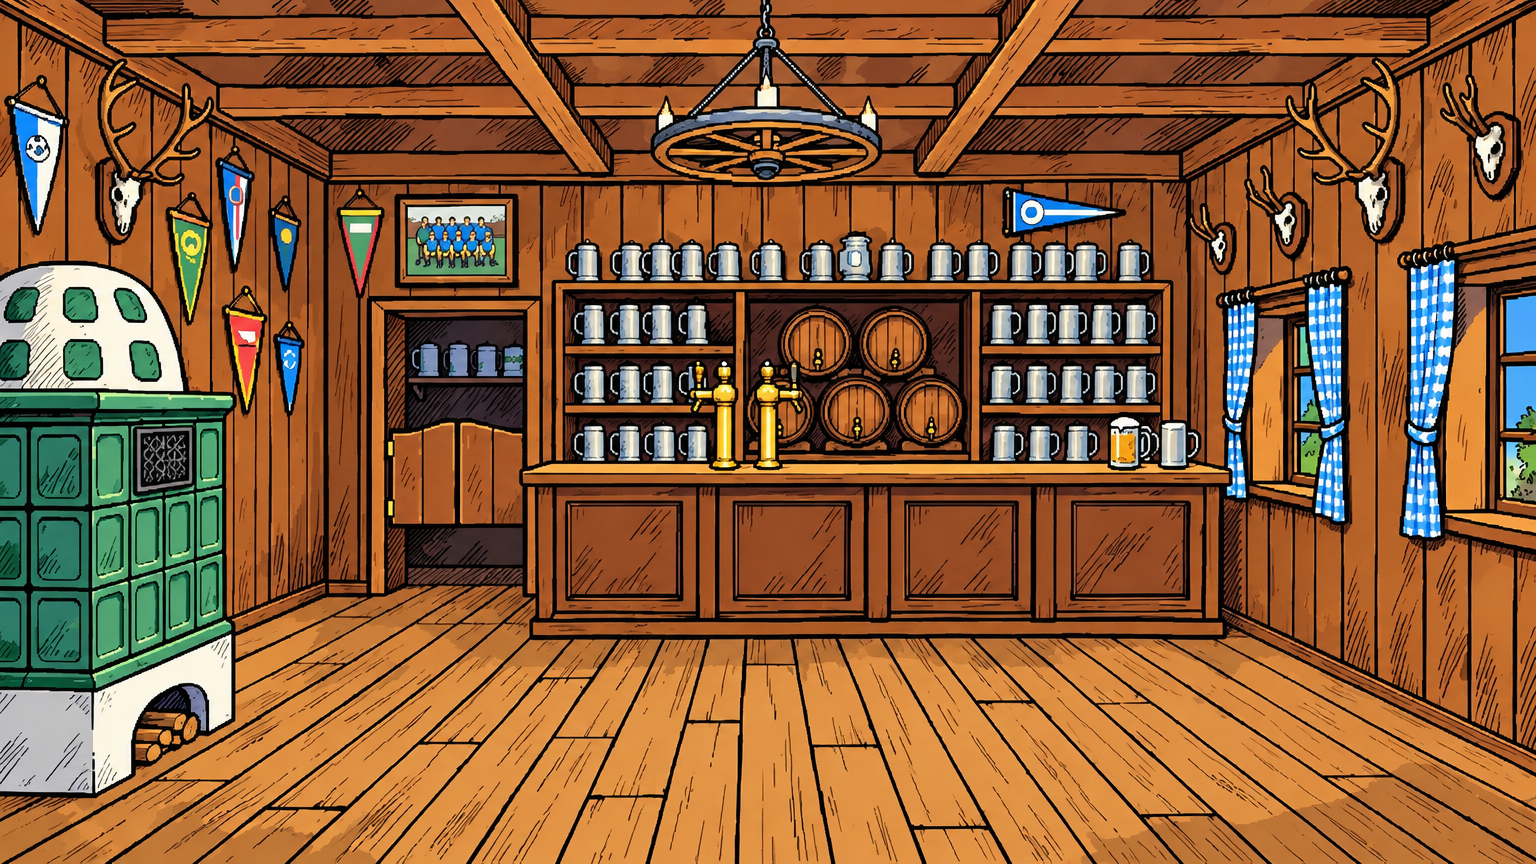
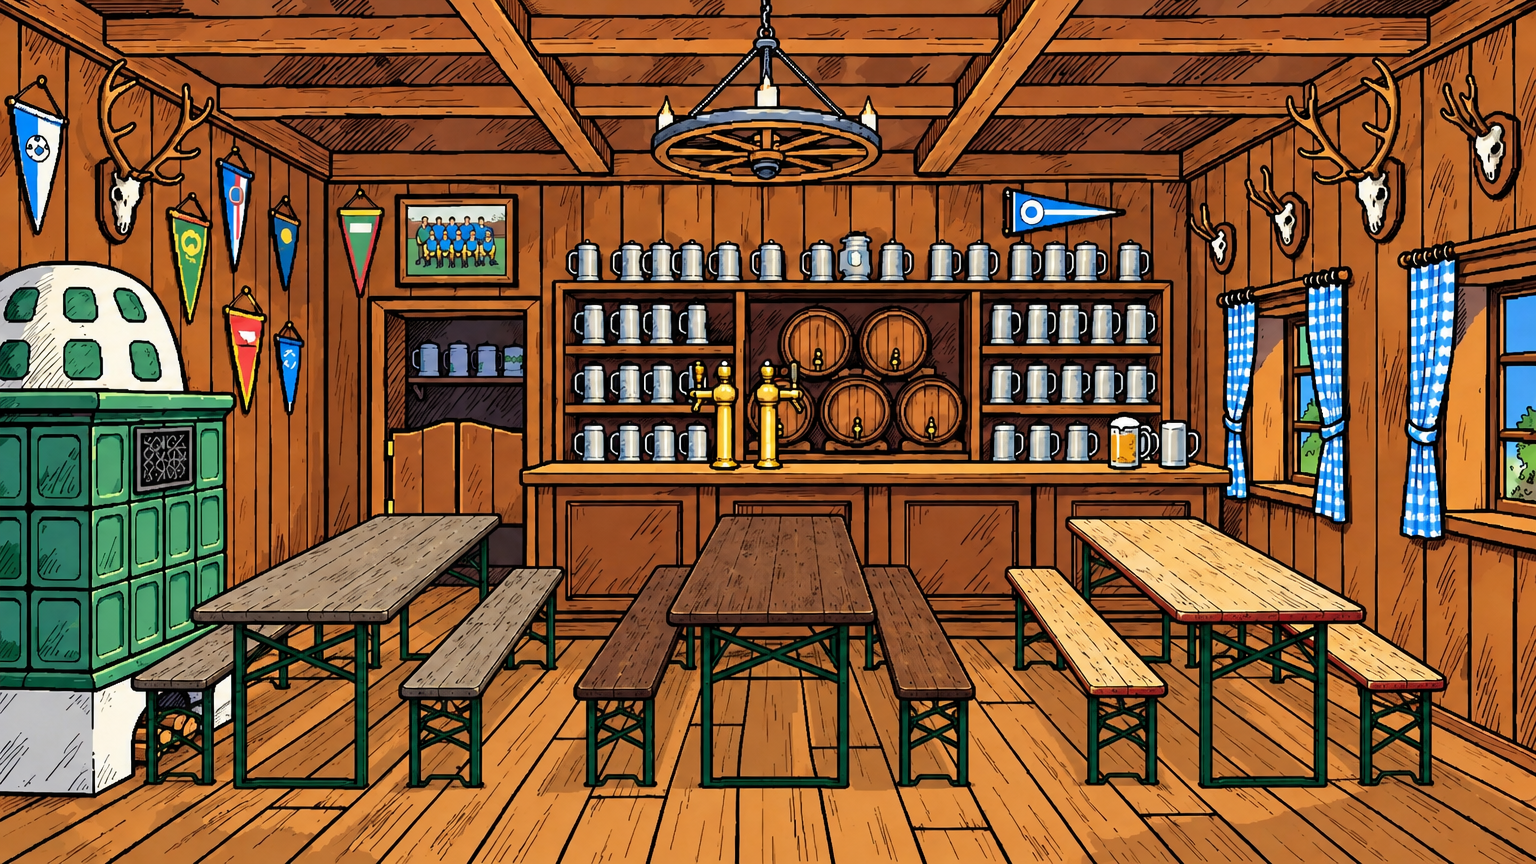
Story: three beer table sets in three woods in the drawn pub
Claude-Session: https://claude.ai/code/session_01GrbNTwVienMcpmsk1Pgq12

diff --git a/guides/DESIGNER_MANUAL.md b/guides/DESIGNER_MANUAL.md
@@ -4483,7 +4483,7 @@ and then its `Door Sound` (`door_open`, a wooden door creaking open)
 name off the bottom middle of its picture, e.g. the Club House's, so the
 Trophy Room hut in front of it keeps its own name.
 
-**The village buttons (23 Oct 2026)**: the village picture (assets/base/village.png) now has the drawn Pub right of the brewery. Like the brewery church, it is a button: Buildings.csv `Village Art` = `pub_inn` (assets/base/map/pub_inn.png = only its pixels, pub_inn_hover.png = lit up with a gold edge). The pitch is a button too: the new row `play_field` ("Play a match", Action `play:friendly`, Village Art `village_field`). Clicking the grass does what the Play a match flag did (the Match Maker), and while that row is on the base the flag is not on the top row. The pieces are made by /mnt/project-files/art_tool/base/village_buttons/make_pieces.py. The Dorms is drawn in too (the white block far left, behind the tree, chapel and houses): Village Art `dorms_block`, lit up on hover the same way. The Brewer visitor is off the base for now: his Visitors.csv `Requires` is `flag:brewer_on_base`; put `unlocked:Brewery` back to bring him back. Later the same day the whole picture was redrawn (r172): the new wooden Club House chalet in the middle (Village Art `clubhouse_chalet`), the low houses and little chapel under the Dorms and Club House all together as the Training Ground (`training_houses`), and the wooden Trophy hut with the gold cup in the field corner between the stone wall and the fence (`trophy_hut`). Every building on the base now lights up yellow on hover. The Dorms and Club House name tags are lifted onto their own building with `Name Offset` so the houses in front do not hide them. Pieces: /mnt/project-files/art_tool/base/village_buttons/make_masks_r172.py, then make_pieces_r172.py. The base's name now hangs on the tavern sign like the other screens (data/MenuHeader.csv; Language.csv `the_base`, `tutorial_base`). THE TUTORIAL NOW STARTS ON THE BASE (23 Oct 2026, Anthony): Tuning.csv `tutorial_first_scene` = `tut-base-welcome`, one Dialogue.csv line over the village picture (StoryArt.csv background `village`): the Head Coach says "Ah Coach! You are here, glad you could make it", and its Next `prologue/open` carries on into Pub Dialogue 1 and the tutorial match as before. Put `prologue` back in `tutorial_first_scene` to open in the pub again. Later the same day (Anthony): every sign's dark edge is half as thick (MenuHeader.csv `backing` Size 30, pictures remade by art_tool/menu/header_aura.py), and THE DRAWN HEAD COACH is in: the story faces in assets/story/portraits/coach_*.png are now his drawn happy, sad, drunk and mad fronts and his happy side (cut out by art_tool/characters/coach/game/cut_portraits.py). His side faces (happy, sad, drunk, mad) are drawn half-turned, semi front/side like the old pixel ones (r173-r174, Anthony's pick). The pub in the story is empty now (Anthony, 23 Oct): StoryArt.csv no longer stacks the regulars layer (assets/story/backgrounds/bar_regulars.png, still there) on the bar room; add the row `bar,background,,,,res://assets/story/backgrounds/bar_regulars.png` under the bar room to bring them back. The room itself is redrawn in our comic style (assets/story/backgrounds/bar_room_drawn.png, r175); the old pixel room is still bar_room.png. His cut-outs have the white between his hair strands and the pale rim round his outline taken out, and each picture is padded at the top to the shape of a person's spot on the story screen, so he stands on its bottom edge just behind the text box instead of floating above it (same script). Check: tools/village_buttons_shot.gd.
+**The village buttons (23 Oct 2026)**: the village picture (assets/base/village.png) now has the drawn Pub right of the brewery. Like the brewery church, it is a button: Buildings.csv `Village Art` = `pub_inn` (assets/base/map/pub_inn.png = only its pixels, pub_inn_hover.png = lit up with a gold edge). The pitch is a button too: the new row `play_field` ("Play a match", Action `play:friendly`, Village Art `village_field`). Clicking the grass does what the Play a match flag did (the Match Maker), and while that row is on the base the flag is not on the top row. The pieces are made by /mnt/project-files/art_tool/base/village_buttons/make_pieces.py. The Dorms is drawn in too (the white block far left, behind the tree, chapel and houses): Village Art `dorms_block`, lit up on hover the same way. The Brewer visitor is off the base for now: his Visitors.csv `Requires` is `flag:brewer_on_base`; put `unlocked:Brewery` back to bring him back. Later the same day the whole picture was redrawn (r172): the new wooden Club House chalet in the middle (Village Art `clubhouse_chalet`), the low houses and little chapel under the Dorms and Club House all together as the Training Ground (`training_houses`), and the wooden Trophy hut with the gold cup in the field corner between the stone wall and the fence (`trophy_hut`). Every building on the base now lights up yellow on hover. The Dorms and Club House name tags are lifted onto their own building with `Name Offset` so the houses in front do not hide them. Pieces: /mnt/project-files/art_tool/base/village_buttons/make_masks_r172.py, then make_pieces_r172.py. The base's name now hangs on the tavern sign like the other screens (data/MenuHeader.csv; Language.csv `the_base`, `tutorial_base`). THE TUTORIAL NOW STARTS ON THE BASE (23 Oct 2026, Anthony): Tuning.csv `tutorial_first_scene` = `tut-base-welcome`, one Dialogue.csv line over the village picture (StoryArt.csv background `village`): the Head Coach says "Ah Coach! You are here, glad you could make it", and its Next `prologue/open` carries on into Pub Dialogue 1 and the tutorial match as before. Put `prologue` back in `tutorial_first_scene` to open in the pub again. Later the same day (Anthony): every sign's dark edge is half as thick (MenuHeader.csv `backing` Size 30, pictures remade by art_tool/menu/header_aura.py), and THE DRAWN HEAD COACH is in: the story faces in assets/story/portraits/coach_*.png are now his drawn happy, sad, drunk and mad fronts and his happy side (cut out by art_tool/characters/coach/game/cut_portraits.py). His side faces (happy, sad, drunk, mad) are drawn half-turned, semi front/side like the old pixel ones (r173-r174, Anthony's pick). The pub in the story is empty now (Anthony, 23 Oct): StoryArt.csv no longer stacks the regulars layer (assets/story/backgrounds/bar_regulars.png, still there) on the bar room; add the row `bar,background,,,,res://assets/story/backgrounds/bar_regulars.png` under the bar room to bring them back. The room itself is redrawn in our comic style (assets/story/backgrounds/bar_room_drawn.png, r175), with three beer garden table sets in three different woods in the middle of the floor (r176); the old pixel room is still bar_room.png. His cut-outs have the white between his hair strands and the pale rim round his outline taken out, and each picture is padded at the top to the shape of a person's spot on the story screen, so he stands on its bottom edge just behind the text box instead of floating above it (same script). Check: tools/village_buttons_shot.gd.
 
 **On Base (Buildings.csv, 23 Oct 2026)**: write `no` and that building is not drawn on the base, but it still exists (its key, window, unlocks and Club House sale all still work). Blank = drawn. The Traveling Tavern is `no` for now (Anthony's ask); empty the cell to bring the wagon back.
 
